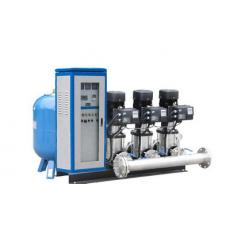
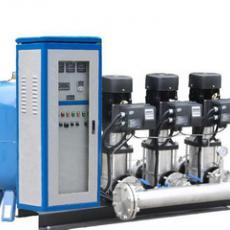
优化:图片显示优化

diff --git a/ecshop/includes/cls_image.php b/ecshop/includes/cls_image.php
@@ -209,14 +209,14 @@ class cls_image
 
         if ($org_info[0] / $thumb_width > $org_info[1] / $thumb_height)
         {
-            $lessen_width  = $thumb_width;
-            $lessen_height  = $thumb_width / $scale_org;
+            $lessen_width  = $thumb_width * $scale_org;
+            $lessen_height  = $thumb_width;
         }
         else
         {
             /* 原始图片比较高，则以高度为准 */
-            $lessen_width  = $thumb_height * $scale_org;
-            $lessen_height = $thumb_height;
+            $lessen_width  = $thumb_height;
+            $lessen_height = $thumb_height/$scale_org;
         }
 
         $dst_x = ($thumb_width  - $lessen_width)  / 2;
